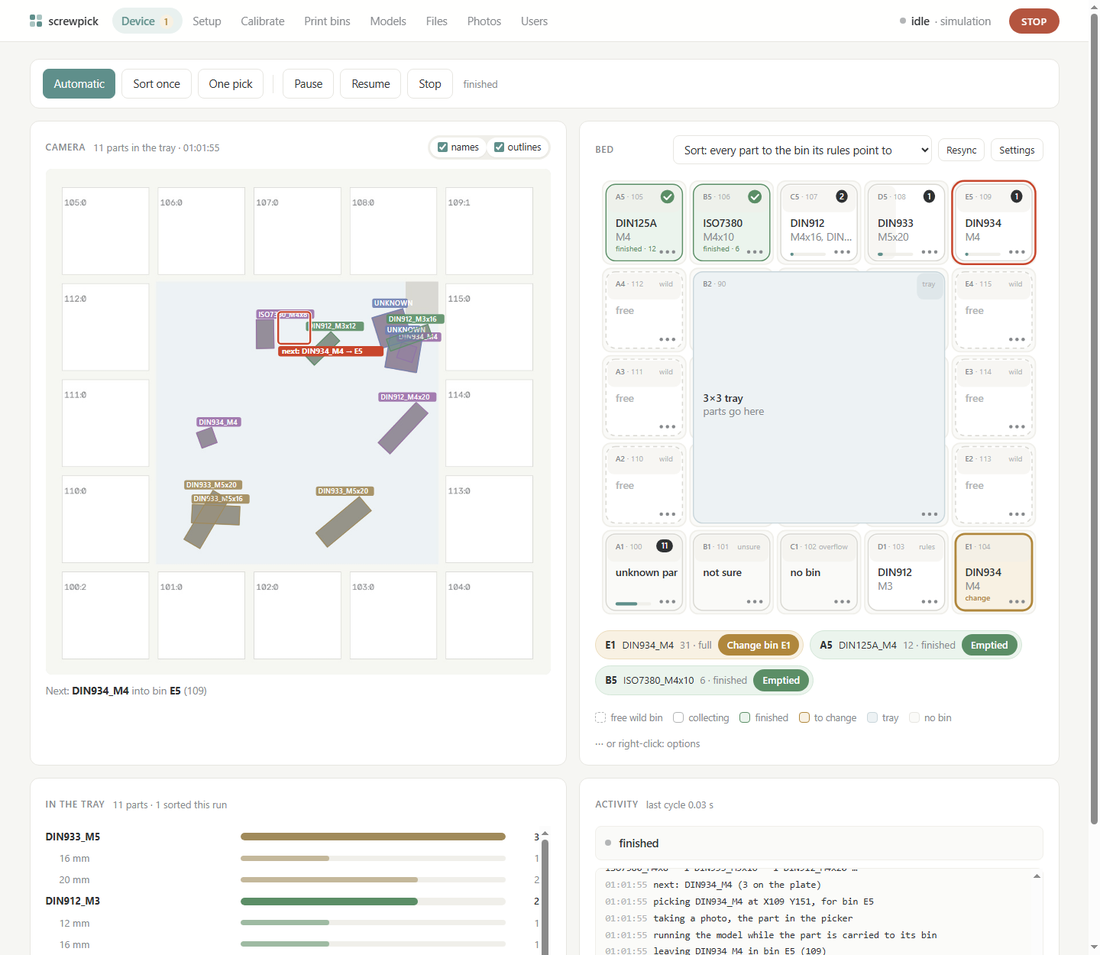
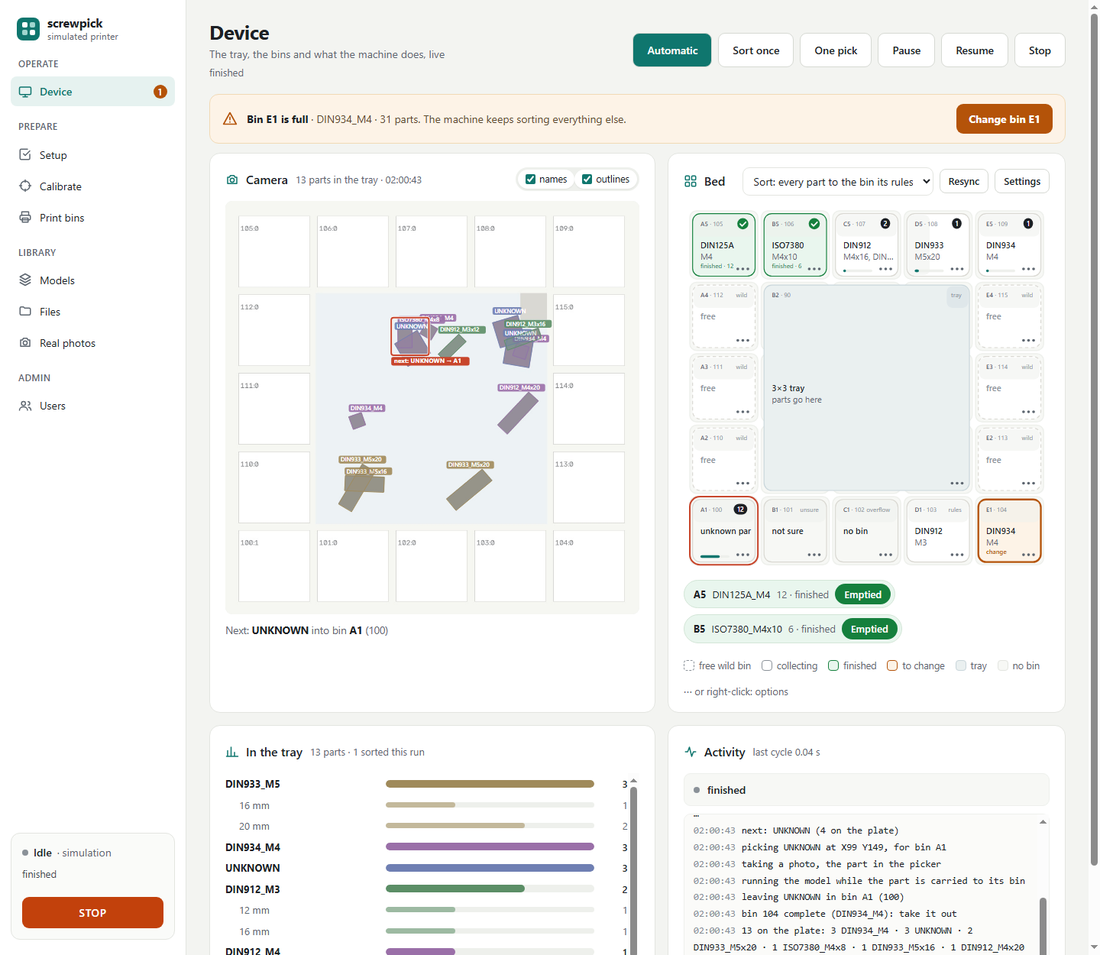
Web page: sidebar layout (design option A)
- Sections in a left sidebar grouped Operate / Prepare / Library / Admin, with icons;
  the machine card at its bottom holds the state, the current step and STOP.
  Below 900 px the sidebar folds into a top bar.
- Every tab gets a page title and a one-line subtitle; Device's buttons sit in its title row.
- A full bin, a bin to change or unfinished setup shows as an orange banner at the top of
  Device with its button (replaces the change chips under the bed and the setup chip).
- New colours (deeper teal accent, stronger text contrast), sentence-case card titles with icons.
- Narrow screens: the Device grid no longer pushes the page wider; wide cards scroll inside.
- Setup step "Layout" pointed at the old Layout tab: now Device -> Resync.
- README: new screenshots and text for the sidebar, banner and STOP.

diff --git a/src/screwpick/web/index.html b/src/screwpick/web/index.html
@@ -3,10 +3,10 @@
 <title>screwpick</title>
 <style>
 :root{
- --bg:#f6f6f3;--card:#fff;--ink:#2f3133;--mut:#878a8d;--soft:#b3b5b6;--line:#e7e6e1;--line2:#f0efea;
- --acc:#5f8f8b;--acc-soft:#e9f1ef;--ok:#5b8e66;--ok-soft:#ebf4ed;--warn:#b0873c;--warn-soft:#f8f1e3;
- --bad:#b4553f;--bad-soft:#f8ebe7;--work:#edf2f4;--cell:#fafaf8;
- --r:12px;--r2:8px;
+ --bg:#f3f4f1;--card:#fff;--ink:#1c2024;--mut:#5d6670;--soft:#8a9198;--line:#e3e5e0;--line2:#eef0ec;
+ --acc:#0f766e;--acc-soft:#e6f2f0;--ok:#15803d;--ok-soft:#e9f6ee;--warn:#b45309;--warn-soft:#fdf3e7;
+ --bad:#c2410c;--bad-soft:#fbede6;--work:#eaf0f0;--cell:#f7f8f5;
+ --r:14px;--r2:9px;
 }
 *{box-sizing:border-box}[hidden]{display:none!important}
 html{background:var(--bg)}
@@ -108,9 +108,9 @@ ul.plain{margin:8px 0 0;padding-left:18px}
 .chip{border:1px solid var(--line);background:var(--card);border-radius:999px;padding:5px 12px;font:inherit;font-size:13px;cursor:pointer}
 .warnc{background:var(--warn-soft);border-color:#ecdcbc;color:var(--warn)}
 .dgrid{display:grid;grid-template-columns:minmax(0,1.12fr) minmax(0,1fr);gap:16px}
-@media (max-width:980px){.dgrid{grid-template-columns:1fr}}
+@media (max-width:980px){.dgrid{grid-template-columns:minmax(0,1fr)}}
 .dcard{margin:0;display:flex;flex-direction:column;min-width:0}
-.chead{display:flex;align-items:center;gap:10px;min-height:32px;margin-bottom:12px}.chead h2{margin:0}.chead .row,.chead .seg{margin-left:auto}
+.chead{display:flex;flex-wrap:wrap;align-items:center;gap:10px;min-height:32px;margin-bottom:12px}.chead h2{margin:0}.chead .row,.chead .seg{margin-left:auto}
 .chead .note{white-space:nowrap;overflow:hidden;text-overflow:ellipsis}
 .seg.sm label{padding:3px 10px;font-size:12.5px;gap:5px}.seg.sm input{display:inline;accent-color:var(--acc);margin:0}
 .camwrap{position:relative;border-radius:var(--r2);overflow:hidden;background:#eceeec;aspect-ratio:1/1}
@@ -159,12 +159,57 @@ ul.plain{margin:8px 0 0;padding-left:18px}
 /* print bins */
 .sizes td{vertical-align:middle}.sizes .plates{display:flex;flex-wrap:wrap;gap:4px 10px;max-width:420px}
 .sizes .thumb{width:150px;text-align:center}.sizes .thumb svg{width:132px;height:96px}
+
+/* theme: workshop sidebar */
+body{font:14px/1.5 Inter,system-ui,-apple-system,"Segoe UI",sans-serif}
+.app{display:flex;min-height:100vh}
+.side{position:sticky;top:0;height:100vh;flex:0 0 244px;background:#fff;border-right:1px solid var(--line);display:flex;flex-direction:column;gap:20px;padding:20px 14px;box-sizing:border-box;overflow:auto;z-index:4}
+.side .brand{padding:0 8px;gap:10px}.side .brand .bl{display:flex;flex-direction:column;line-height:1.25}.side .brand b{font-size:16px;font-weight:700;letter-spacing:-.01em}.side .brand small{font-size:12px;color:var(--mut);font-weight:400}
+.logo{width:30px;height:30px;border-radius:8px;background:var(--acc);display:grid;grid-template-columns:repeat(2,7px);place-content:center;gap:3px}.logo i{width:7px;height:7px;border-radius:2px;background:#fff}.logo i:nth-child(2),.logo i:nth-child(3){background:#9fd6cf}
+nav{display:flex;flex-direction:column;gap:18px}
+.ngroup{display:flex;flex-direction:column;gap:2px}
+.glabel{font-size:11.5px;font-weight:600;letter-spacing:.06em;color:var(--mut);padding:0 10px 6px;text-transform:uppercase}
+nav button{display:flex;align-items:center;gap:10px;width:100%;text-align:left;padding:9px 10px;border-radius:8px;color:var(--ink);font-size:14px}
+nav button svg{flex:none;color:var(--mut)}nav button:hover{background:var(--cell);color:var(--ink)}
+nav button.on{background:var(--acc-soft);color:var(--acc);font-weight:600}nav button.on svg{color:var(--acc)}
+nav button .badge{margin-left:auto;background:var(--warn);color:#fff}
+.mcard{margin-top:auto;border:1px solid var(--line);border-radius:12px;padding:14px;background:#fafbf9;display:flex;flex-direction:column;gap:8px}
+.mcard #status{font-size:14px}.mcard #status b{text-transform:capitalize}.mcard .now{font-size:13px;color:#3f4750;min-height:20px}
+.mcard .who{display:flex;align-items:center;gap:8px;font-size:12.5px;color:var(--mut)}.mcard .who button{margin-left:auto;background:none;border:0;color:var(--acc);font:inherit;cursor:pointer;padding:0}
+.mcard .estop{width:100%;border-radius:9px;padding:11px;font-size:14px;margin-top:4px}
+.content{flex:1;min-width:0}
+main{max-width:1380px;padding:26px 30px 40px}
+.phead{display:flex;flex-wrap:wrap;align-items:center;gap:12px 24px;margin-bottom:18px}
+.phead .pt{flex:1 1 300px}.phead h1{margin:0;font-size:26px;font-weight:700;letter-spacing:-.02em;line-height:1.2}.phead p{margin:3px 0 0;color:var(--mut)}
+.phead .acts{display:flex;flex-wrap:wrap;gap:8px;align-items:center}
+h2{font-size:16px;font-weight:600;letter-spacing:-.005em;text-transform:none;color:var(--ink);display:flex;align-items:center;gap:9px}
+h2 svg{color:var(--acc);flex:none}
+.card{border-radius:var(--r)}
+button.b{border-radius:9px;padding:9px 16px;font-weight:500;border-color:#d6d9d3}
+button.b.s{padding:5px 11px;font-size:13px;border-radius:8px}
+button.p{font-weight:600}button.big{padding:11px 18px}
+.attn{display:flex;flex-wrap:wrap;align-items:center;gap:12px;border-radius:12px;padding:12px 16px;margin-bottom:12px;border:1px solid}
+.attn.w{background:var(--warn-soft);border-color:#f1d9b5}.attn.w svg{color:var(--warn)}
+.attn .tx{flex:1 1 280px}.attn .tx span{color:#5d4a2e}
+.attn button{border:0;border-radius:9px;padding:9px 16px;font:inherit;font-weight:700;color:#fff;background:var(--warn);cursor:pointer}
+#msg{font-size:13px;margin-top:4px;min-height:19px}#strategy{max-width:250px}
+@media (max-width:900px){.app{flex-direction:column}.side{position:static;height:auto;flex:none;width:100%;flex-direction:row;flex-wrap:wrap;align-items:center;border-right:0;border-bottom:1px solid var(--line);padding:12px}
+ nav{flex-direction:row;flex-wrap:wrap;gap:4px;width:100%}.ngroup{flex-direction:row;flex-wrap:wrap}.glabel{display:none}nav button{width:auto}.mcard{margin:0;flex:1 1 100%}main{padding:18px 16px 30px}.content{width:100%;overflow-x:hidden}.card{overflow-x:auto}}
 </style></head><body>
-<header><div class="bar">
- <div class="brand"><span class="logo"><i></i><i></i><i></i><i></i></span>screwpick</div>
- <nav><button data-t="device" class="on">Device<span id="devbadge" class="badge" hidden></span></button><button data-t="setup">Setup<span id="setupbadge" class="badge" hidden></span></button><button data-t="calib">Calibrate</button><button data-t="print">Print bins</button><button data-t="models">Models</button><button data-t="files">Files</button><button data-t="photos">Photos</button><button data-t="users">Users</button></nav>
- <div class="right"><span id="status"><span class="dot"></span>…</span><span id="me"></span><button class="estop" onclick="cmd('estop')">STOP</button></div>
-</div></header>
+<div class="app">
+<aside class="side">
+ <div class="brand"><span class="logo"><i></i><i></i><i></i><i></i></span><span class="bl"><b>screwpick</b><small id="machname">pick-and-place sorter</small></span></div>
+ <nav aria-label="Sections">
+  <div class="ngroup"><span class="glabel">Operate</span><button data-t="device" class="on"><svg width="18" height="18" viewBox="0 0 24 24" fill="none" stroke="currentColor" stroke-width="2" stroke-linecap="round" stroke-linejoin="round" aria-hidden="true"><rect x="2" y="4" width="20" height="13" rx="2"/><path d="M8 21h8M12 17v4"/></svg><span>Device</span><span id="devbadge" class="badge" hidden></span></button></div>
+  <div class="ngroup"><span class="glabel">Prepare</span><button data-t="setup"><svg width="18" height="18" viewBox="0 0 24 24" fill="none" stroke="currentColor" stroke-width="2" stroke-linecap="round" stroke-linejoin="round" aria-hidden="true"><path d="M9 11l3 3 8-8"/><path d="M20 12v7a2 2 0 0 1-2 2H5a2 2 0 0 1-2-2V5a2 2 0 0 1 2-2h11"/></svg><span>Setup</span><span id="setupbadge" class="badge" hidden></span></button><button data-t="calib"><svg width="18" height="18" viewBox="0 0 24 24" fill="none" stroke="currentColor" stroke-width="2" stroke-linecap="round" stroke-linejoin="round" aria-hidden="true"><circle cx="12" cy="12" r="8"/><path d="M12 2v4M12 18v4M2 12h4M18 12h4"/></svg><span>Calibrate</span></button><button data-t="print"><svg width="18" height="18" viewBox="0 0 24 24" fill="none" stroke="currentColor" stroke-width="2" stroke-linecap="round" stroke-linejoin="round" aria-hidden="true"><path d="M6 9V3h12v6"/><rect x="3" y="9" width="18" height="8" rx="2"/><path d="M7 14h10v7H7z"/></svg><span>Print bins</span></button></div>
+  <div class="ngroup"><span class="glabel">Library</span><button data-t="models"><svg width="18" height="18" viewBox="0 0 24 24" fill="none" stroke="currentColor" stroke-width="2" stroke-linecap="round" stroke-linejoin="round" aria-hidden="true"><path d="M12 2l9 5-9 5-9-5z"/><path d="M3 12l9 5 9-5M3 17l9 5 9-5"/></svg><span>Models</span></button><button data-t="files"><svg width="18" height="18" viewBox="0 0 24 24" fill="none" stroke="currentColor" stroke-width="2" stroke-linecap="round" stroke-linejoin="round" aria-hidden="true"><path d="M3 7a2 2 0 0 1 2-2h4l2 2h8a2 2 0 0 1 2 2v8a2 2 0 0 1-2 2H5a2 2 0 0 1-2-2z"/></svg><span>Files</span></button><button data-t="photos"><svg width="18" height="18" viewBox="0 0 24 24" fill="none" stroke="currentColor" stroke-width="2" stroke-linecap="round" stroke-linejoin="round" aria-hidden="true"><path d="M4 8h3l2-3h6l2 3h3v11H4z"/><circle cx="12" cy="13" r="3.5"/></svg><span>Real photos</span></button></div>
+  <div class="ngroup"><span class="glabel">Admin</span><button data-t="users"><svg width="18" height="18" viewBox="0 0 24 24" fill="none" stroke="currentColor" stroke-width="2" stroke-linecap="round" stroke-linejoin="round" aria-hidden="true"><circle cx="9" cy="8" r="3.5"/><path d="M2 20c0-3.5 3-6 7-6s7 2.5 7 6M17 11a3 3 0 1 0 0-6M22 20c0-2.6-1.7-4.6-4-5.4"/></svg><span>Users</span></button></div>
+ </nav>
+ <div class="mcard"><span id="status"><span class="dot"></span>…</span><span class="now" id="nowline"></span>
+  <span class="who"><span id="me"></span><button onclick="logout()" id="logoutb" hidden>Log out</button></span>
+  <button class="estop" onclick="cmd('estop')" title="Stops the printer at once (Klipper emergency stop)">STOP</button></div>
+</aside>
+<div class="content">
 
 <div id="login"><form onsubmit="doLogin(event)">
  <div class="brand"><span class="logo"><i></i><i></i><i></i><i></i></span>screwpick</div>
@@ -178,7 +223,8 @@ ul.plain{margin:8px 0 0;padding-left:18px}
 
 <main>
 <section id="setup">
- <div class="card"><h2>Setup</h2><p class="note" style="margin:0">Go through these steps once, in order, and again whenever something changes (picker, Z switch, camera, bins). <b>Sort</b> and <b>Automatic</b> start only when every step is checked. Until then the machine only makes the moves you ask for here. <span id="setupsum"></span></p></div>
+ <div class="phead"><div class="pt"><h1>Setup</h1><p>Once, in order, before the machine moves by itself</p></div></div>
+ <div class="card"><h2>How it works</h2><p class="note" style="margin:0">Go through these steps once, in order, and again whenever something changes (picker, Z switch, camera, bins). <b>Sort</b> and <b>Automatic</b> start only when every step is checked. Until then the machine only makes the moves you ask for here. <span id="setupsum"></span></p></div>
  <div id="steps"></div>
  <div class="card"><h2>On the machine</h2>
   <p class="note">Things only you can do on the real machine. They do not stop the sorting; some tick themselves off when the program notices.</p>
@@ -186,20 +232,18 @@ ul.plain{margin:8px 0 0;padding-left:18px}
 </section>
 
 <section id="device" class="on">
- <div class="card ctl">
-  <div class="row"><button class="b p" onclick="cmd('auto')" title="Standby: looks for parts every minute and sorts them, until Stop. Stays on after a restart.">Automatic</button><button class="b" onclick="cmd('start')">Sort once</button><button class="b" onclick="cmd('step')">One pick</button><span class="vsep"></span><button class="b" onclick="cmd('pause')">Pause</button><button class="b" onclick="cmd('resume')">Resume</button><button class="b" onclick="cmd('stop')">Stop</button></div>
-  <span id="msg" class="note grow"></span>
-  <button id="setupchip" class="chip warnc" hidden onclick="go('setup')"></button>
- </div>
+ <div class="phead"><div class="pt"><h1>Device</h1><p>The tray, the bins and what the machine does, live</p><div id="msg" class="note"></div></div>
+  <div class="acts"><button class="b p big" onclick="cmd('auto')" title="Standby: looks for parts every minute and sorts them, until Stop. Stays on after a restart.">Automatic</button><button class="b big" onclick="cmd('start')">Sort once</button><button class="b big" onclick="cmd('step')">One pick</button><button class="b big" onclick="cmd('pause')">Pause</button><button class="b big" onclick="cmd('resume')">Resume</button><button class="b big" onclick="cmd('stop')">Stop</button></div></div>
+ <div id="attn"></div>
  <div class="dgrid">
   <div class="card dcard">
-   <div class="chead"><h2>Camera</h2><span class="note" id="camnote"></span>
+   <div class="chead"><h2><svg width="18" height="18" viewBox="0 0 24 24" fill="none" stroke="currentColor" stroke-width="2" stroke-linecap="round" stroke-linejoin="round" aria-hidden="true"><path d="M4 8h3l2-3h6l2 3h3v11H4z"/><circle cx="12" cy="13" r="3.5"/></svg>Camera</h2><span class="note" id="camnote"></span>
     <span class="seg sm"><label><input type="checkbox" id="showlab" checked onchange="drawOverlay()">names</label><label><input type="checkbox" id="showout" checked onchange="drawOverlay()">outlines</label></span></div>
-   <div class="camwrap"><img id="view" alt="" onload="drawOverlay()"><svg id="ov"></svg><div id="camempty" class="empty">No photo yet: press <b>One pick</b> or <b>Sort once</b>.</div></div>
+   <div class="camwrap"><img id="view" alt="" onload="drawOverlay()"><svg id="ov"></svg><div id="camempty" class="empty"><span>No photo yet: press <b>One pick</b> or <b>Sort once</b>.</span></div></div>
    <div id="target" class="tline"></div>
   </div>
   <div class="card dcard">
-   <div class="chead"><h2>Bed</h2>
+   <div class="chead"><h2><svg width="18" height="18" viewBox="0 0 24 24" fill="none" stroke="currentColor" stroke-width="2" stroke-linecap="round" stroke-linejoin="round" aria-hidden="true"><rect x="3" y="3" width="7" height="7" rx="1.5"/><rect x="14" y="3" width="7" height="7" rx="1.5"/><rect x="3" y="14" width="7" height="7" rx="1.5"/><rect x="14" y="14" width="7" height="7" rx="1.5"/></svg>Bed</h2>
     <div class="row"><select id="strategy" title="How the parts are sorted"></select><button class="b s" onclick="scan()" title="Photo: where the baseplate lies, which bins stand where and which way round; the biggest bin becomes the tray unless you chose one">Resync</button><button class="b s" onclick="openSettings()" title="Grid size, where it lies, what a wild bin collects">Settings</button></div></div>
    <svg id="grid" class="bedsvg"></svg>
    <div id="bedbar"></div>
@@ -208,11 +252,11 @@ ul.plain{margin:8px 0 0;padding-left:18px}
    <div class="legend"><span><i class="sw" style="border-style:dashed"></i>free wild bin</span><span><i class="sw"></i>collecting</span><span><i class="sw" style="background:var(--ok-soft);border-color:var(--ok)"></i>finished</span><span><i class="sw" style="background:var(--warn-soft);border-color:var(--warn)"></i>to change</span><span><i class="sw" style="background:var(--work);border-color:#c9d6db"></i>tray</span><span><i class="sw" style="background:var(--cell);border-color:var(--line)"></i>no bin</span><span class="note">⋯ or right-click: options</span></div>
   </div>
   <div class="card dcard">
-   <div class="chead"><h2>In the tray</h2><span class="note" id="statnote"></span></div>
+   <div class="chead"><h2><svg width="18" height="18" viewBox="0 0 24 24" fill="none" stroke="currentColor" stroke-width="2" stroke-linecap="round" stroke-linejoin="round" aria-hidden="true"><path d="M4 20V10M10 20V4M16 20v-7M22 20H2"/></svg>In the tray</h2><span class="note" id="statnote"></span></div>
    <div id="bars" class="scrolly"></div>
   </div>
   <div class="card dcard">
-   <div class="chead"><h2>Activity</h2><span class="note" id="actnote"></span></div>
+   <div class="chead"><h2><svg width="18" height="18" viewBox="0 0 24 24" fill="none" stroke="currentColor" stroke-width="2" stroke-linecap="round" stroke-linejoin="round" aria-hidden="true"><path d="M3 12h4l3-8 4 16 3-8h4"/></svg>Activity</h2><span class="note" id="actnote"></span></div>
    <div id="now"></div>
    <div id="console" class="scrolly"></div>
   </div>
@@ -220,6 +264,7 @@ ul.plain{margin:8px 0 0;padding-left:18px}
 </section>
 
 <section id="calib">
+ <div class="phead"><div class="pt"><h1>Calibrate</h1><p>The camera, the camera to the printer, and the picker tip</p></div></div>
  <div class="card"><h2>Camera calibration</h2>
   <p class="note" style="margin:0 0 12px">Tells the program how the camera sees: the lens, and where it stands over the tray. screwpick parks the bed itself; only the camera is screwrig's. Do it once, and again whenever the camera or the tray moved. The result lands in the Files tab by itself.</p>
   <ol class="calsteps">
@@ -263,6 +308,7 @@ ul.plain{margin:8px 0 0;padding-left:18px}
 </section>
 
 <section id="print">
+ <div class="phead"><div class="pt"><h1>Print bins</h1><p>Bins, trays, baseplates and holders, ready to print</p></div></div>
  <div class="card"><h2>Bin sizes</h2>
   <p class="note">Each size has its own range of codes, so the camera knows a bin's size from its code, and whether the code sits on a shelf along the back or on a post in the back-right corner (codes 50–99). Use a corner tray as the plate: nothing overhangs there, so no part gets trapped. Every plate is a full build plate of one size for a 220 × 220 bed: all the same height, so one colour change at the rim (21 mm for 3u, 42 mm for 6u) makes all the codes black. The same files are in the repository under <code>prints/</code>.</p>
   <table id="sizelist" class="sizes"></table>
@@ -287,8 +333,9 @@ ul.plain{margin:8px 0 0;padding-left:18px}
 </section>
 
 <section id="users">
+ <div class="phead"><div class="pt"><h1>Users</h1><p>Who may use this page</p></div></div>
  <div class="cols">
-  <div class="card"><h2>Users</h2><table id="ulist"></table>
+  <div class="card"><h2>Accounts</h2><table id="ulist"></table>
    <div class="row" style="margin-top:14px"><input id="nuser" placeholder="New user name"><input id="npass" type="password" placeholder="Password"><button class="b p" onclick="addUser()">Add user</button></div>
    <p class="note" style="margin-top:10px">Everyone with an account can do everything. Lost every password? On the Pi: <code>screwpick user add NAME</code>.</p><span id="umsg" class="note"></span></div>
   <div class="card"><h2>My password</h2><div style="display:grid;gap:8px"><input id="oldpw" type="password" placeholder="Current password"><input id="newpw" type="password" placeholder="New password"><div class="row"><button class="b" onclick="changePw()">Change</button><button class="b" onclick="logout()">Log out</button></div></div></div>
@@ -296,14 +343,16 @@ ul.plain{margin:8px 0 0;padding-left:18px}
 </section>
 
 <section id="files">
- <div class="card"><h2>Files from the other projects</h2>
+ <div class="phead"><div class="pt"><h1>Files</h1><p>Files from the other projects, kept on this Pi</p></div></div>
+ <div class="card"><h2>How it works</h2>
   <p class="note">screwpick keeps its own copy of every file it uses, so it runs on its own. Fetch each one from where it says, and drop it on its card: it is checked, kept on this Pi and used at once. A file you leave out is not missing: the card says what is done without it. The models are in the Models tab.</p>
   <span id="fmsg" class="note"></span></div>
  <div id="flist" class="card frows"></div>
 </section>
 
 <section id="photos">
- <div class="card"><h2>Real photos</h2>
+ <div class="phead"><div class="pt"><h1>Real photos</h1><p>Photo sessions for checking the model on the PC</p></div></div>
+ <div class="card"><h2>New session</h2>
   <p class="note">Photos of real parts on the tray, for checking the model on the PC (screw-sorting project, real data). Make a session, write down on the PC what lies in the tray (inventory.csv), then take a photo after each change: the bed is parked first, the camera uses the locked settings. Download the session and put it in the screw-sorting project's data/real/.</p>
   <div class="row"><label>session<input id="sname" placeholder="e.g. s01_m3_m4"></label><label>by<input id="sop" style="width:110px"></label><label style="flex:1">notes<input id="snotes" style="flex:1"></label><button class="b s" onclick="newSession()">New session</button></div>
   <span id="smsg" class="note"></span></div>
@@ -311,6 +360,7 @@ ul.plain{margin:8px 0 0;padding-left:18px}
 </section>
 
 <section id="models">
+ <div class="phead"><div class="pt"><h1>Models</h1><p>The models that find and measure the parts</p></div></div>
  <div class="card"><h2>In use</h2><div id="loaded" class="note">…</div></div>
  <div class="card"><h2>Add a model</h2>
   <div id="drop" onclick="$('file').click()"><b>Drop a model here</b> or click to choose<br>
@@ -324,6 +374,7 @@ ul.plain{margin:8px 0 0;padding-left:18px}
  <div class="card" id="testcard" hidden><h2>Test result</h2><p id="testinfo" class="note"></p><img id="testimg" class="shot" alt=""></div>
 </section>
 </main>
+</div></div>
 <div id="menu" class="menu" hidden></div>
 <div id="modal" class="modal" hidden onclick="if(event.target===this)closeModal()"><div class="mbox"><h3 id="mtitle"></h3><div id="mbody"></div>
  <div class="row end"><button class="b" onclick="closeModal()">Cancel</button><button class="b p" id="mok">Queue the change</button></div></div></div>
@@ -340,7 +391,7 @@ function esc(s){return String(s).replace(/[&<>"]/g,c=>({"&":"&amp;","<":"&lt;","
 // ---------------------------------------------------------------- login
 let first=false;
 function showLogin(isFirst){first=isFirst;$("login").classList.add("on");$("logtitle").textContent=isFirst?"Create the first account":"Log in";$("loghelp").hidden=!isFirst;$("lpass2").hidden=!isFirst;$("lpass2").required=isFirst;}
-async function session(){try{const j=await api("api/session");$("me").textContent=j.user||"";if(j.login&&!j.user)showLogin(j.first_account);else{$("login").classList.remove("on");poll();}}catch(e){}}
+async function session(){try{const j=await api("api/session");$("me").textContent=j.user?"Signed in as "+j.user:"";$("logoutb").hidden=!j.user;if(j.login&&!j.user)showLogin(j.first_account);else{$("login").classList.remove("on");poll();}}catch(e){}}
 async function doLogin(e){e.preventDefault();if(first&&$("lpass").value!==$("lpass2").value){flash("logmsg","the passwords differ",1);return;}
  try{await api(first?"api/setup":"api/login",{user:$("luser").value,password:$("lpass").value});$("lpass").value=$("lpass2").value="";flash("logmsg","");session();}catch(err){flash("logmsg",err.message,1);}}
 async function logout(){await api("api/logout",{});location.reload();}
@@ -366,8 +417,11 @@ async function poll(){try{S=await api("api/state");}catch(e){$("status").innerHT
  const img=S.view||S.shot;if(img&&img!==shownView){shownView=img;$("view").src="runs/"+encodeURIComponent(img);$("calshot").src="runs/"+encodeURIComponent(S.shot||img);}
  $("camempty").hidden=!!img;drawOverlay();renderStats();renderActivity();
  const su=S.setup||{},left=(su.missing||[]).length;$("setupbadge").hidden=!(su.required&&left);$("setupbadge").textContent=left;
- $("setupchip").hidden=!(su.required&&left);$("setupchip").textContent=`Setup: ${left} step${left===1?"":"s"} left`;
+
  const nreq=(S.requests||[]).length;$("devbadge").hidden=!nreq;$("devbadge").textContent=nreq;
+ $("machname").textContent=S.driver==="sim"?"simulated printer":"Klipper printer";
+ $("nowline").textContent=(["running","waiting","parked","standby","stopping"].includes(S.status)?S.phase||S.message:S.message)||"";
+ renderAttention();
  renderPairs(S.calib_pairs||[]);if(!maskSet&&S.mask_margin_mm!=null){$("mmargin").value=S.mask_margin_mm;maskSet=true;}
  if(!pending.length&&++layTick%3===0)loadLayout(true);else renderBed();}
 let layTick=0;
@@ -455,9 +509,14 @@ function renderBed(){const L=draft;if(!L)return;const W=L.cols*CELL,H=L.rows*CEL
  svg.querySelectorAll("g[data-cell]").forEach(g=>{const[x,y]=g.dataset.cell.split(",").map(Number);if(taken.has(`${x},${y}`))return;const open=e=>{e.preventDefault();e.stopPropagation();cellMenu(x,y,e);};g.onclick=open;g.oncontextmenu=open;});
  $("pending").hidden=!pending.length;$("pendtext").innerHTML=pending.length?`<b>${pending.length} change${pending.length===1?"":"s"} queued</b> · ${pending.map(esc).join(" · ")}`:"";
  renderBedBar();}
+const WARN_ICO='<svg width="20" height="20" viewBox="0 0 24 24" fill="none" stroke="currentColor" stroke-width="2" stroke-linecap="round" stroke-linejoin="round" aria-hidden="true"><path d="M12 3l10 18H2z"/><path d="M12 10v4M12 17.5v.5"/></svg>';
+function renderAttention(){const reqs=S.requests||[],parked=S.swap_phase==="parked",su=S.setup||{},left=(su.missing||[]).length;
+ const why=x=>x.why==="full"?"is full":x.why==="asked"?"is to be changed":`is needed for ${esc(x.for_kind||"a new kind")}`;
+ $("attn").innerHTML=(su.required&&left?`<div class="attn w">${WARN_ICO}<span class="tx"><b>Setup is not finished</b> <span>· ${left} step${left===1?"":"s"} left: ${esc((su.missing||[]).join(", "))}. Until then the machine only moves when you ask.</span></span><button onclick="go('setup')">Open Setup</button></div>`:"")+
+  reqs.map(x=>`<div class="attn w">${WARN_ICO}<span class="tx"><b>Bin ${esc(x.cell)} ${why(x)}</b> <span>· ${esc(x.what)} · ${x.count} part${x.count===1?"":"s"}. ${parked?"The machine is parked: change the bin, then press the button.":"The machine keeps sorting everything else."}</span></span><button onclick="cmd('change')">${parked?`Bin ${esc(x.cell)} changed`:`Change bin ${esc(x.cell)}`}</button></div>`).join("");}
 function renderBedBar(){const reqs=S.requests||[],parked=S.swap_phase==="parked",L=draft;
  const cell=m=>{const b=L&&L.bins.find(b=>b.marker===m);return b?cellName(b.x,b.y):String(m);};
- $("bedbar").innerHTML=reqs.map(x=>`<span class="req chg"><b>${esc(x.cell)}</b> ${esc(x.what)} <span class="mut">${x.count} · ${x.why==="full"?"full":x.why==="asked"?"asked":"for "+esc(x.for_kind||"")}</span><button onclick="cmd('change')">${parked?`Bin ${esc(x.cell)} changed`:`Change bin ${esc(x.cell)}`}</button></span>`).join("")+
+ $("bedbar").innerHTML=
   (S.ready||[]).filter(x=>!reqs.some(r=>r.marker===x.marker)).map(x=>`<span class="req fin"><b>${esc(cell(x.marker))}</b> ${esc(x.what)} <span class="mut">${x.count} · finished</span><button onclick="emptied(${x.marker})">Emptied</button></span>`).join("");}
 // menus
 function closeMenu(){$("menu").hidden=true;}
@@ -559,7 +618,7 @@ function stepBody(st){const m=SU.machine||{},redo=st.done?` <button class="b s" 
   (SU.rotation?`<p class="note" style="margin-top:10px">Tweezers: at <b>0°</b> the jaws must close along the printer's X axis (left–right). If they don't, turn them there by hand and press <b>Set zero</b>.</p><button class="b s" onclick="setupCall('api/setup/rotate',{angle:0})">Turn to 0°</button> <button class="b s" onclick="setupCall('api/setup/rotate',{angle:90})">Turn to 90°</button> <button class="b s" onclick="setupCall('api/setup/rotate',{zero:true})">Set zero</button> `:"")+
   (["grab","release"].every(x=>(SU.picker_tried||[]).includes(x))&&(!SU.rotation||(SU.picker_tried||[]).includes("rotate"))&&!st.done?` <button class="b p s" onclick="setupCall('api/setup/confirm',{step:'picker'})">It holds and lets go</button>`:"")+redo;
  case "camera":return `<p class="note">In <b>Calibrate</b>: photo, the tip onto 3 or more markers, Fit. Checks itself when the worst error is below 1 mm.</p><button class="b s" onclick="go('calib')">Open Calibrate</button>`;
- case "layout":return `<p class="note">In <b>Layout</b>: <b>Resync with the camera</b>. Checks itself when the bins and a plate are found without problems.</p><button class="b s" onclick="go('layout')">Open Layout</button>`;
+ case "layout":return `<p class="note">In <b>Device</b>, next to the bed: <b>Resync</b>. Checks itself when the bins and a plate are found without problems.</p><button class="b s" onclick="go('device')">Open Device</button>`;
  }return "";}
 function renderSetup(){const left=SU.steps.filter(x=>!x.done).length;
  $("setupsum").innerHTML=SU.required?(left?`<b>${left}</b> step${left===1?"":"s"} to go.`:'<span class="ok">All done: the machine may sort.</span>'):"(Simulation: not required.)";

diff --git a/README.md b/README.md
@@ -9,7 +9,10 @@ printer's firmware) and you use it from a web page on your phone or PC, or from 
 display.
 
 ![The Device tab](docs/images/device.png)
-*The Device tab, the page you land on. Top left the camera: the latest photo with every part
+*The Device tab, the page you land on. On the left the sections of the page, grouped by what
+you do (operate, prepare, library), and below them the machine: its state, what it is doing and
+the STOP button. Anything that needs you, like a full bin, shows as an orange banner at the top
+with its button. Top left the camera: the latest photo with every part
 outlined and named, and the part picked next boxed in red. Top right the bed, live: every bin with
 what it collects and how full it is; one bin waits for a change (amber), two are finished (green).
 Bottom left what lies in the tray, by class and length; bottom right what the machine is doing.
@@ -28,6 +31,9 @@ screwpick's web page. screwpick never reaches into the other projects' folders.
 
 ### What's new
 
+- **New look:** the sections are in a sidebar on the left, grouped by what you do, with the
+  machine's state and the STOP button always at its bottom. Every page has a title, and a full
+  bin or unfinished setup shows as an orange banner at the top of Device.
 - **Device tab:** one page with the live camera (every part outlined, the next one boxed), the
   live bed with a menu on every bin, what lies in the tray, and what the machine is doing.
   [See below](#first-time-setup).
@@ -35,7 +41,7 @@ screwpick's web page. screwpick never reaches into the other projects' folders.
   printer. The machine keeps sorting the rest meanwhile. [Everyday use](#everyday-use).
 - **Queued bin changes:** edit, add, turn or take off bins, then *Apply* them all at once, even
   while sorting.
-- **Camera calibration and real photos from the page** (Calibrate and Photos tabs): screwpick is
+- **Camera calibration and real photos from the page** (Calibrate and Real photos tabs): screwpick is
   the only program that moves the printer.
 - **Files tab:** one row per file from the other projects, each with its drop area.
 - **Faster page:** the Pi answers on IPv6 and IPv4 and no longer re-reads files every second.
@@ -264,7 +270,8 @@ program notices; they never block sorting.
    in the tray, and a line for everything the machine does (parking, taking a photo, running the
    model, picking X, leaving X in bin Y).
 4. **When a bin is full**, or a new kind needs a bin and none is free, the bin turns amber on the
-   bed and a **Change bin E1** button appears under it (and on the printer's display). The
+   bed and an orange banner with a **Change bin E1** button appears at the top of the Device tab
+   (and on the printer's display). The
    machine **keeps sorting everything else**.
    - Press **Change bin E1**: the machine parks with the bed out, so your hands are safe.
    - Empty the bin, or put an empty bin in its place, and press **Bin E1 changed**. A photo checks
@@ -272,7 +279,7 @@ program notices; they never block sorting.
    - You can also ask for any bin to be changed from its ⋯ menu.
 5. **Finished bins** (nothing left in the tray goes there) are green, with an **Emptied** button
    under the bed. Take them out, empty them and press it.
-6. **STOP** at the top right stops the printer at once.
+6. **STOP**, at the bottom of the sidebar, stops the printer at once.
 
 Everything on the page can also be done from the printer's display: **Screw sorter** in its
 menu has Automatic, Sort, One pick, Change bin, Pause, Resume and Stop.
